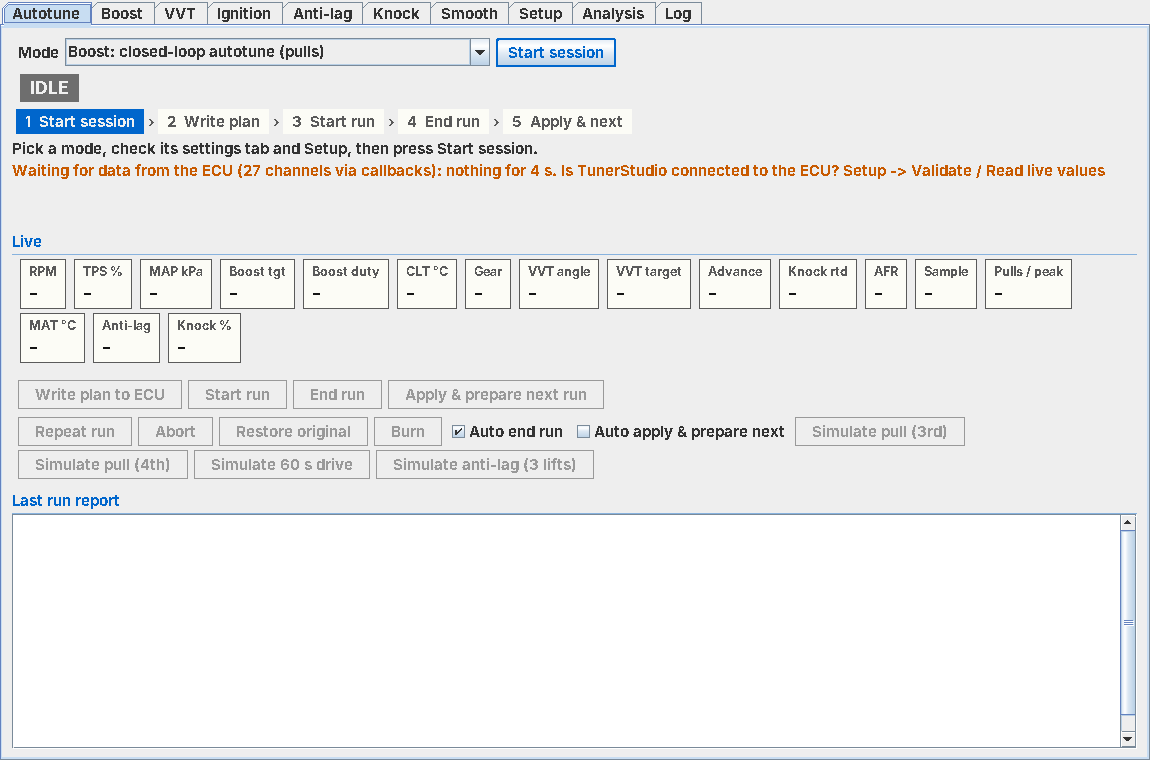
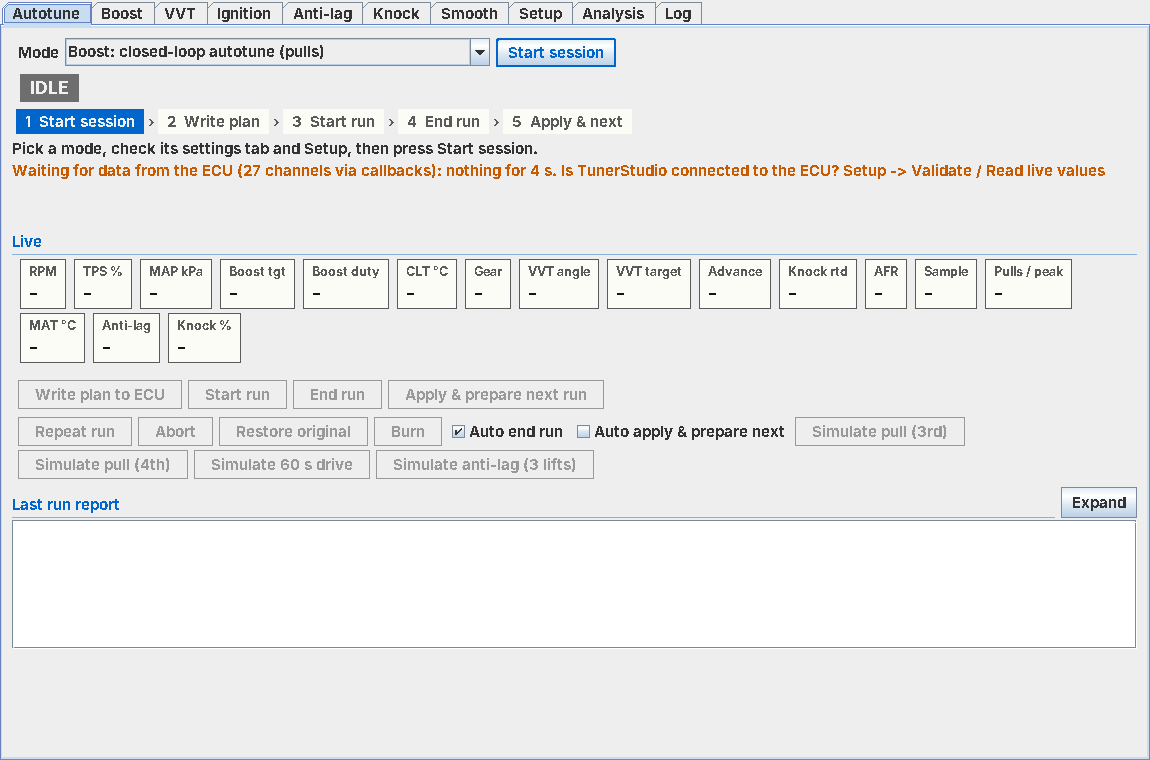
Autotune tab: compact report box with Expand instead of a full-height field
The last run report used to take all the remaining height of the tab. It
is now a seven-row box under the buttons with an Expand / Shrink button;
the stack sits in the NORTH slot so a short window never squeezes the
wrapped button rows. Layout test checks the box stays well under half
the window at every text size; screenshots refreshed.

Claude-Session: https://claude.ai/code/session_01WMDcv15XFjgY16SMi8wYho

Changed region(s): [[0.0, 0.6355, 1.0, 0.9987]]

diff --git a/boost-autotune-plugin/src/main/java/io/github/xadmiral/boostautotune/plugin/ui/AutotunePanel.java b/boost-autotune-plugin/src/main/java/io/github/xadmiral/boostautotune/plugin/ui/AutotunePanel.java
@@ -47,7 +47,10 @@ public final class AutotunePanel extends JPanel {
     private final JLabel[] live = new JLabel[LIVE_NAMES.length];
     private final JPanel[] liveCells = new JPanel[LIVE_NAMES.length];
     private Color cardBg;
-    private final JTextArea report = new JTextArea(14, 80);
+    private final JTextArea report = new JTextArea(7, 80);
+    private final JButton reportSize = new JButton("Expand");
+    private static final int REPORT_ROWS_SMALL = 7;
+    private static final int REPORT_ROWS_LARGE = 22;
     private final JButton startSession = new JButton("Start session");
     private final JButton writePlan = new JButton("Write plan to ECU");
     private final JButton startRun = new JButton("Start run");
@@ -161,21 +164,40 @@ public final class AutotunePanel extends JPanel {
 
         report.setEditable(false);
         report.setFont(new Font(Font.MONOSPACED, Font.PLAIN, 12));
-        JPanel center = new JPanel(new BorderLayout());
+        // the report is a compact box under the buttons (a few rows, Expand for more), not a white
+        // field that swallows the rest of the window
         JPanel rows = new JPanel(new GridBagLayout());
         GridBagConstraints rc = new GridBagConstraints();
         rc.gridx = 0;
         rc.weightx = 1;
         rc.fill = GridBagConstraints.HORIZONTAL;
-        rc.anchor = GridBagConstraints.WEST;
+        rc.anchor = GridBagConstraints.NORTHWEST;
         rows.add(buttonRow, rc);
         rows.add(secondaryRow, rc);
+        JPanel reportHeader = new JPanel(new BorderLayout(6, 0));
+        reportHeader.add(Ui.sectionHeader("Last run report"), BorderLayout.CENTER);
+        reportSize.setMargin(new Insets(1, 8, 1, 8));
+        reportHeader.add(reportSize, BorderLayout.EAST);
+        rc.insets = new Insets(4, 0, 0, 0);
+        rows.add(reportHeader, rc);
+        final JScrollPane reportScroll = new JScrollPane(report);
+        rc.insets = new Insets(2, 0, 0, 0);
+        rows.add(reportScroll, rc);
+        // NORTH of a BorderLayout: the stack keeps its preferred height whatever the window size,
+        // so a short window never squeezes the wrapped button rows
+        JPanel center = new JPanel(new BorderLayout());
         center.add(rows, BorderLayout.NORTH);
-        JPanel reportBox = new JPanel(new BorderLayout());
-        reportBox.add(Ui.sectionHeader("Last run report"), BorderLayout.NORTH);
-        reportBox.add(new JScrollPane(report), BorderLayout.CENTER);
-        center.add(reportBox, BorderLayout.CENTER);
         add(center, BorderLayout.CENTER);
+        reportSize.addActionListener(new ActionListener() {
+            public void actionPerformed(ActionEvent e) {
+                boolean small = report.getRows() == REPORT_ROWS_SMALL;
+                report.setRows(small ? REPORT_ROWS_LARGE : REPORT_ROWS_SMALL);
+                reportSize.setText(small ? "Shrink" : "Expand");
+                reportScroll.setPreferredSize(null);
+                rows.revalidate();
+                rows.repaint();
+            }
+        });
 
         startSession.addActionListener(new ActionListener() {
             public void actionPerformed(ActionEvent e) {
@@ -301,6 +323,11 @@ public final class AutotunePanel extends JPanel {
 
     public Ui.Steps stepsBar() {
         return steps;
+    }
+
+    /** The report area (layout checks). */
+    public JTextArea reportArea() {
+        return report;
     }
 
     public TuneMode selectedMode() {

diff --git a/boost-autotune-plugin/src/test/java/io/github/xadmiral/boostautotune/plugin/ui/LayoutHeadlessTest.java b/boost-autotune-plugin/src/test/java/io/github/xadmiral/boostautotune/plugin/ui/LayoutHeadlessTest.java
@@ -104,6 +104,9 @@ class LayoutHeadlessTest {
                         }
                     }
                 }
+                // the report is a compact box: well under half of the window at every text size
+                int reportHeight = a.reportArea().getParent().getParent().getHeight();
+                assertTrue(reportHeight > 0 && reportHeight < 760 * 0.45, String.format("scale %.2f width %d: report box is %d px high", sc, width, reportHeight));
                 // the step bar never stacks its labels on each other
                 Component[] steps = a.stepsBar().getComponents();
                 for (int i = 0; i < steps.length; i++) {
